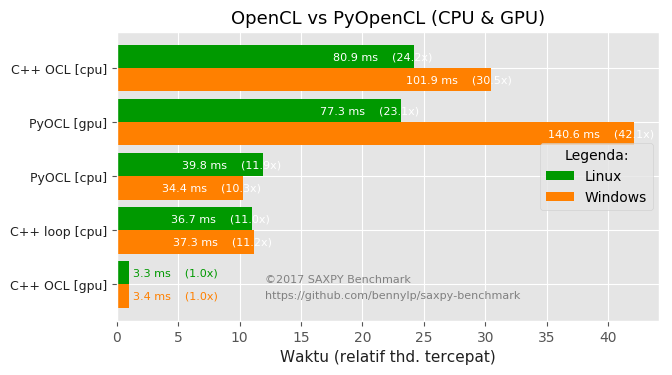
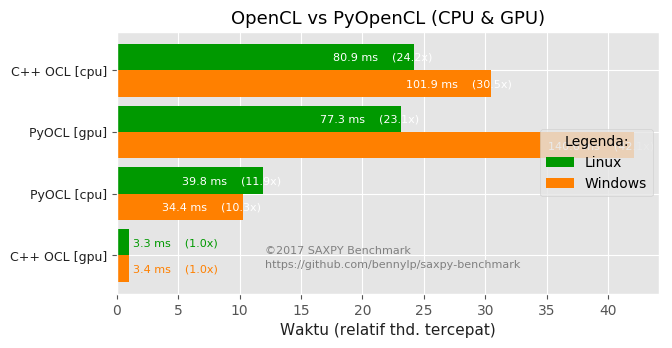
Added Thrust

diff --git a/src/saxpy_thrust.cpp b/src/saxpy_thrust.cpp
@@ -1,0 +1,82 @@
+// Using NVidia Thrust API
+// http://docs.nvidia.com/cuda/thrust/index.html
+#include "saxpy.h"
+#include <thrust/device_vector.h>
+#include <thrust/host_vector.h>
+#include <thrust/fill.h>
+#include <thrust/functional.h>
+#include <thrust/transform.h>
+#include <thrust/transform_reduce.h>
+#include "cuda.h"
+#include <string>
+
+// Using functor idiom as recommended by http://docs.nvidia.com/cuda/thrust/index.html
+struct saxpy_functor
+{
+   const float a_;
+   saxpy_functor(float a) : a_(a) {}
+   __host__  __device__ float operator()(const float& x, const float &y) const {
+      return a_ * x + y;
+   }
+};
+
+struct error_diff_functor
+{
+   const float answer_;
+   error_diff_functor(float answer) : answer_(answer) {}
+   __host__ __device__ float operator()(const float &y) {
+      return fabs(y - answer_);
+   }
+};
+
+template<class Iterator>
+void dump_vector(const char *name, Iterator begin, Iterator end)
+{
+   std::cout << name << ": ";
+   for (Iterator it = begin; it != end; ++it)
+      std::cout << *it << " ";
+   std::cout << " .." << std::endl;
+}
+
+template <class Vector, class SyncFunction>
+int saxpy_main(Vector dummy, SyncFunction sync)
+{
+   const unsigned N = (1 << 26);
+   const float XVAL = 3;
+   const float YVAL = 4;
+   const float AVAL = 1.5;
+
+   std::cout << "N: " << N << std::endl;
+   Vector x(N);
+   Vector y(N);
+
+   thrust::fill(x.begin(), x.end(), XVAL);
+   thrust::fill(y.begin(), y.end(), YVAL);
+
+   sync();
+   saxpy_timer t;
+   thrust::transform(x.begin(), x.end(), y.begin(), y.begin(), saxpy_functor(AVAL));
+   sync();
+
+   double elapsed = t.elapsed_msec();
+
+   std::cout << "Elapsed: " << elapsed << " ms" << std::endl;
+
+   const auto answer = YVAL + AVAL * XVAL;
+   auto err = thrust::transform_reduce(y.begin(), y.end(), error_diff_functor(answer), 0, thrust::plus<float>());
+   std::cout << "Errors: " << err << std::endl;
+   //dump_vector("y", y.end()-4, y.end());
+   return 0;
+}
+
+int main(int argc, char *argv[])
+{
+   if (argc==2 && std::string("cpu") == argv[1]) {
+      std::cout << "Using cpu" << std::endl;
+      return saxpy_main(thrust::host_vector<float>(), [](){});
+   } else {
+      std::cout << "Using gpu" << std::endl;
+      return saxpy_main(thrust::device_vector<float>(), [](){ cudaDeviceSynchronize(); });
+   }
+}
+

diff --git a/results/create_charts.py b/results/create_charts.py
@@ -38,7 +38,8 @@ known_columns = {
     'Julia (loop) [cpu]': 'saxpy_loop.jl',
     'Julia (vec) [cpu]': 'saxpy_array.jl',
     'Py CNTK [gpu]': 'saxpy_cntk.py',
-    'Py CNTK [cpu]': 'saxpy_cntk.py'
+    'Py CNTK [cpu]': 'saxpy_cntk.py',
+    'C++ Thrust [gpu]': 'saxpy_trust.cpp'
 }
 
 

diff --git a/results/README.md b/results/README.md
@@ -15,6 +15,7 @@ some statistics with them in the future:
 - C++ OCL [gpu]
 - C++ OMP [cpu]
 - C++ TensorFlow [gpu]
+- C++ Thrust [gpu]
 - C++ loop [cpu]
 - Java loop [cpu]
 - Julia (loop) [cpu]
@@ -74,33 +75,34 @@ Note: same machine as Windows below (dual-boot)
 
 | Test   | Mean Time (ms) | StdDev (ms) | Time (rel)
 |--------| --------: | --------: | --------: |
-| R (loop) [cpu] | 75848.000 | 0.000 | 22700.70x |
-| Python loop [cpu] | 11934.702 | 178.077 | 3571.96x |
-| R (matrix) [cpu] | 1625.473 | 1.413 | 486.49x |
-| R (data.table) [cpu] | 706.059 | 4.114 | 211.32x |
-| Py CNTK [cpu] | 682.768 | 0.965 | 204.35x |
-| Py CNTK [gpu] | 406.687 | 1.101 | 121.72x |
-| Py Pandas [cpu] | 297.991 | 0.627 | 89.19x |
-| MXNet [cpu] | 226.005 | 1.247 | 67.64x |
-| Octave [cpu] | 217.682 | 0.993 | 65.15x |
-| R (array) [cpu] | 151.504 | 0.774 | 45.34x |
-| R (data.frame) [cpu] | 145.518 | 0.431 | 43.55x |
-| C++ OMP [cpu] | 144.715 | 14.128 | 43.31x |
-| Py TensorFlow [cpu] | 143.582 | 0.479 | 42.97x |
-| Julia (vec) [cpu] | 121.649 | 0.466 | 36.41x |
-| C++ OCL [cpu] | 80.856 | 0.061 | 24.20x |
-| PyOCL [gpu] | 77.332 | 0.257 | 23.14x |
-| Py Numpy [cpu] | 77.161 | 0.378 | 23.09x |
-| Java loop [cpu] | 42.703 | 0.100 | 12.78x |
-| Julia (loop) [cpu] | 41.343 | 0.126 | 12.37x |
-| PyOCL [cpu] | 39.846 | 0.598 | 11.93x |
-| C++ loop [cpu] | 36.676 | 0.217 | 10.98x |
-| Py TensorFlow [gpu] | 27.574 | 0.000 | 8.25x |
-| C++ TensorFlow [gpu] | 27.356 | 0.000 | 8.19x |
-| MXNet [gpu] | 12.843 | 0.043 | 3.84x |
-| PyCUDA [gpu] | 3.621 | 0.009 | 1.08x |
+| R (loop) [cpu] | 75848.000 | 0.000 | 22833.42x |
+| Python loop [cpu] | 11934.702 | 178.077 | 3592.84x |
+| R (matrix) [cpu] | 1625.473 | 1.413 | 489.34x |
+| R (data.table) [cpu] | 706.059 | 4.114 | 212.55x |
+| Py CNTK [cpu] | 682.768 | 0.965 | 205.54x |
+| Py CNTK [gpu] | 406.687 | 1.101 | 122.43x |
+| Py Pandas [cpu] | 297.991 | 0.627 | 89.71x |
+| MXNet [cpu] | 226.005 | 1.247 | 68.04x |
+| Octave [cpu] | 217.682 | 0.993 | 65.53x |
+| R (array) [cpu] | 151.504 | 0.774 | 45.61x |
+| R (data.frame) [cpu] | 145.518 | 0.431 | 43.81x |
+| C++ OMP [cpu] | 144.715 | 14.128 | 43.57x |
+| Py TensorFlow [cpu] | 143.582 | 0.479 | 43.22x |
+| Julia (vec) [cpu] | 121.649 | 0.466 | 36.62x |
+| C++ OCL [cpu] | 80.856 | 0.061 | 24.34x |
+| PyOCL [gpu] | 77.332 | 0.257 | 23.28x |
+| Py Numpy [cpu] | 77.161 | 0.378 | 23.23x |
+| Java loop [cpu] | 42.703 | 0.100 | 12.86x |
+| Julia (loop) [cpu] | 41.343 | 0.126 | 12.45x |
+| PyOCL [cpu] | 39.846 | 0.598 | 12.00x |
+| C++ loop [cpu] | 36.676 | 0.217 | 11.04x |
+| Py TensorFlow [gpu] | 27.574 | 0.000 | 8.30x |
+| C++ TensorFlow [gpu] | 27.356 | 0.000 | 8.24x |
+| MXNet [gpu] | 12.843 | 0.043 | 3.87x |
+| PyCUDA [gpu] | 3.621 | 0.009 | 1.09x |
 | C++ CUDA [gpu] | 3.467 | 0.022 | 1.04x |
-| C++ OCL [gpu] | 3.341 | 0.012 | 1.00x |
+| C++ OCL [gpu] | 3.341 | 0.012 | 1.01x |
+| C++ Thrust [gpu] | 3.322 | 0.006 | 1.00x |
 
 
 ### Result
@@ -110,19 +112,19 @@ Note: same machine as Windows below (dual-boot)
 
 ### Notes
 
-- **outlier "R (loop) [cpu]" is removed from the chart because it is 22700x slower**
-- **outlier "Python loop [cpu]" is removed from the chart because it is 3571x slower**
-- **outlier "R (matrix) [cpu]" is removed from the chart because it is 486x slower**
-- **outlier "R (data.table) [cpu]" is removed from the chart because it is 211x slower**
-- **outlier "Py CNTK [cpu]" is removed from the chart because it is 204x slower**
-- **outlier "Py CNTK [gpu]" is removed from the chart because it is 121x slower**
+- **outlier "R (loop) [cpu]" is removed from the chart because it is 22833x slower**
+- **outlier "Python loop [cpu]" is removed from the chart because it is 3592x slower**
+- **outlier "R (matrix) [cpu]" is removed from the chart because it is 489x slower**
+- **outlier "R (data.table) [cpu]" is removed from the chart because it is 212x slower**
+- **outlier "Py CNTK [cpu]" is removed from the chart because it is 205x slower**
+- **outlier "Py CNTK [gpu]" is removed from the chart because it is 122x slower**
 - **outlier "Py Pandas [cpu]" is removed from the chart because it is 89x slower**
-- **outlier "MXNet [cpu]" is removed from the chart because it is 67x slower**
+- **outlier "MXNet [cpu]" is removed from the chart because it is 68x slower**
 - **outlier "Octave [cpu]" is removed from the chart because it is 65x slower**
 - **outlier "R (array) [cpu]" is removed from the chart because it is 45x slower**
 - **outlier "R (data.frame) [cpu]" is removed from the chart because it is 43x slower**
 - **outlier "C++ OMP [cpu]" is removed from the chart because it is 43x slower**
-- **outlier "Py TensorFlow [cpu]" is removed from the chart because it is 42x slower**
+- **outlier "Py TensorFlow [cpu]" is removed from the chart because it is 43x slower**
 - **outlier "Julia (vec) [cpu]" is removed from the chart because it is 36x slower**
 - **outlier "C++ OCL [cpu]" is removed from the chart because it is 24x slower**
 - **outlier "PyOCL [gpu]" is removed from the chart because it is 23x slower**

diff --git a/README.md b/README.md
@@ -138,11 +138,12 @@ Comparing naive C++ loop with OpenCL and OpenMP on CPU.
 
 ## C++ CPU vs GPU
 
-Comparing naive C++ loop with CUDA and OpenCL on GPU
+Comparing naive C++ loop with CUDA, OpenCL, and Thrust on GPU
 
 - C++ loop [cpu] ([src/saxpy_cpu.cpp](src/saxpy_cpu.cpp))
 - C++ CUDA [gpu] ([src/saxpy_cuda.cpp](src/saxpy_cuda.cpp))
 - C++ OCL [gpu] ([src/saxpy_ocl1.cpp](src/saxpy_ocl1.cpp))
+- C++ Thrust [gpu] ([src/saxpy_trust.cpp](src/saxpy_trust.cpp))
 
 ![results/charts-en/c++-cpu-vs-gpu.png](results/charts-en/c++-cpu-vs-gpu.png?raw=true "results/charts-en/c++-cpu-vs-gpu.png")
 
@@ -154,17 +155,15 @@ Comparing C++ OpenCL with OpenCL Python wrapper.
 - PyOCL [gpu] ([src/saxpy_pyocl.py](src/saxpy_pyocl.py))
 - C++ OCL [cpu] ([src/saxpy_ocl1.cpp](src/saxpy_ocl1.cpp))
 - C++ OCL [gpu] ([src/saxpy_ocl1.cpp](src/saxpy_ocl1.cpp))
-- C++ loop [cpu] ([src/saxpy_cpu.cpp](src/saxpy_cpu.cpp))
 
 ![results/charts-en/pyopencl-vs-opencl.png](results/charts-en/pyopencl-vs-opencl.png?raw=true "results/charts-en/pyopencl-vs-opencl.png")
 
 ## PyCUDA vs C++ (GPU)
 
-Comparing PyCUDA (Python CUDA wrapper) with C++ OpenCL on GPU and C++ naive loop
+Comparing PyCUDA (Python CUDA wrapper) with native C++ CUDA GPU
 
 - PyCUDA [gpu] ([src/saxpy_pycuda.py](src/saxpy_pycuda.py))
-- C++ OCL [gpu] ([src/saxpy_ocl1.cpp](src/saxpy_ocl1.cpp))
-- C++ loop [cpu] ([src/saxpy_cpu.cpp](src/saxpy_cpu.cpp))
+- C++ CUDA [gpu] ([src/saxpy_cuda.cpp](src/saxpy_cuda.cpp))
 
 ![results/charts-en/pycuda-vs-c++.png](results/charts-en/pycuda-vs-c++.png?raw=true "results/charts-en/pycuda-vs-c++.png")
 
